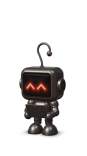
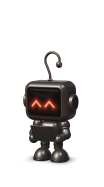
Null alone (calls, chats) drawn 1.2x so he reads at a Clawd's size

diff --git a/phone/src/faces.rs b/phone/src/faces.rs
@@ -14,8 +14,7 @@ const TALK_FOR: f32 = 2.2; // seconds of talk when an answer arrives
 
 /// The textures' sizes (logical px): the widest and tallest picture (a Clawd's) with room above, at each size.
 pub fn sizes() -> [(f32, f32); 2] {
-    let f = alive::frame(Who::Clawd(crate::cast::Mat::Vinyl));
-    [SMALL_K, BIG_K].map(|k| (f.w * k, (f.h + alive::HEAD) * k))
+    [SMALL_K, BIG_K].map(alive::solo_size)
 }
 
 pub struct Faces {
@@ -54,7 +53,7 @@ impl Faces {
             self.who = Some(who);
             (self.replies, self.talk_until, self.drawn) = (replies, 0.0, [-1.0; 2]);
             let tex = sizes().map(|s| texture_px(s, sf));
-            let view = [SMALL_K, BIG_K].map(|k| alive::view(who, k, sf).1);
+            let view = [SMALL_K, BIG_K].map(|k| alive::view(who, alive::solo(who, k), sf).1);
             c.set_face_w(view[0].0);
             c.set_face_h(view[0].1);
             c.set_face_th(tex[0].1);
@@ -82,7 +81,7 @@ impl Faces {
             cast.tick(now);
             let shown = i == 0 || now < self.big_until;
             if shown && (self.drawn[i] < 0.0 || alive::due(cast, self.drawn[i], now)) {
-                let (res, view) = alive::view(who, k, sf);
+                let (res, view) = alive::view(who, alive::solo(who, k), sf);
                 slots[i] = Slot { who, res, view, frame: cast.uniforms(), fresh: true };
                 self.drawn[i] = now;
                 any = true;

diff --git a/art/live3d/stills.py b/art/live3d/stills.py
@@ -9,6 +9,7 @@ import render as R
 TL = r'D:\Outputs\CallMe\design\live3d\cast\timelines'
 OUT = os.path.join(HERE, '..', '..', 'phone', 'ui', 'faces')
 K, SF, HEAD = 0.21, 2.75, 40  # chat.slint's list size, a phone's px per logical px, alive.rs HEAD
+SOLO = {'null': 1.2}  # alive.rs NULL_SOLO: Null alone is drawn larger
 FACES = {'clawd': ('clawd', 300, 250), 'haiku': ('haiku', 300, 250), 'sonnet': ('sonnet', 300, 250), 'opus': ('opus', 300, 250), 'null': ('null', 150, 230)}
 
 if __name__ == '__main__':
@@ -18,7 +19,8 @@ if __name__ == '__main__':
     for face, (tl, fw, fh) in FACES.items():
         data = json.load(open(os.path.join(TL, tl + '.json')))
         prog = R.program(data['shader'])
-        w, h, vh = round(fw * K * SF), round(fh * K * SF), round((fh + HEAD) * K * SF)
+        k = K * SOLO.get(face, 1)
+        w, h, vh = round(fw * k * SF), round(fh * k * SF), round((fh + HEAD) * k * SF)
         # drawn 4x larger and scaled down, for clean edges at this small size
         S = 4
         fbo = ctx.simple_framebuffer((w * S, vh * S), components=4)

diff --git a/phone/src/alive.rs b/phone/src/alive.rs
@@ -28,6 +28,21 @@ pub fn frame(who: Who) -> Frame {
 /// taller view than `uRes` only adds sky; nothing moves or scales.
 pub const HEAD: f32 = 40.0;
 
+/// Null stands beside Clawd at home; alone (calls, chats) he is drawn this much larger, so his thin frame reads at
+/// a Clawd's size. actor.slint matches it.
+pub const NULL_SOLO: f32 = 1.2;
+
+/// `k` for `who` drawn alone.
+pub fn solo(who: Who, k: f32) -> f32 {
+    if who == Who::Null { k * NULL_SOLO } else { k }
+}
+
+/// The texture (logical px) a character drawn alone at `k` needs: the larger of a Clawd's and a solo Null's.
+pub fn solo_size(k: f32) -> (f32, f32) {
+    let (c, n) = (frame(Who::Clawd(Mat::Vinyl)), frame(Who::Null));
+    (c.w.max(n.w * NULL_SOLO) * k, (c.h + HEAD).max((n.h + HEAD) * NULL_SOLO) * k)
+}
+
 /// For drawing `who` at `k` times home size on a screen of `sf` px per logical px: its uRes and the viewport (the
 /// picture plus HEAD above it), in px.
 pub fn view(who: Who, k: f32, sf: f32) -> ((i32, i32), (i32, i32)) {

diff --git a/phone/src/caller.rs b/phone/src/caller.rs
@@ -40,7 +40,7 @@ pub struct Caller {
 
 fn place(who: Who, perched: bool) -> Place {
     let (k, left, y) = if perched { (SMALL_K, 30.0, 73.0) } else { (BIG_K, 24.0, 108.0) };
-    Place { x: left + alive::frame(who).body_w * k / 2.0, y, k }
+    Place { x: left + alive::frame(who).body_w * alive::solo(who, k) / 2.0, y, k }
 }
 
 fn ease_out(t: f32) -> f32 {
@@ -68,8 +68,7 @@ impl Caller {
 
     /// The texture's size (logical px): the widest and tallest picture at its big size, with room above.
     pub fn size() -> (f32, f32) {
-        let f = alive::frame(Who::Clawd(crate::cast::Mat::Vinyl));
-        (f.w * BIG_K, (f.h + alive::HEAD) * BIG_K)
+        alive::solo_size(BIG_K)
     }
 
     pub fn poke(&mut self, now: f32) {

diff --git a/phone/src/screen.rs b/phone/src/screen.rs
@@ -352,7 +352,7 @@ pub fn run(app: android_activity::AndroidApp) {
             let moved = last != Some((p, who));
             if fade > 0.0 && !s.failed && (moved || drawn < 0.0 || alive::due(&c.cast, drawn, now)) {
                 let sf = ui.window().scale_factor();
-                let (res, view) = alive::view(who, p.k, sf);
+                let (res, view) = alive::view(who, alive::solo(who, p.k), sf);
                 s.slots[0] = live_gl::Slot { who, res, view, frame: c.cast.uniforms(), fresh: true };
                 drawn = now;
                 last = Some((p, who));
